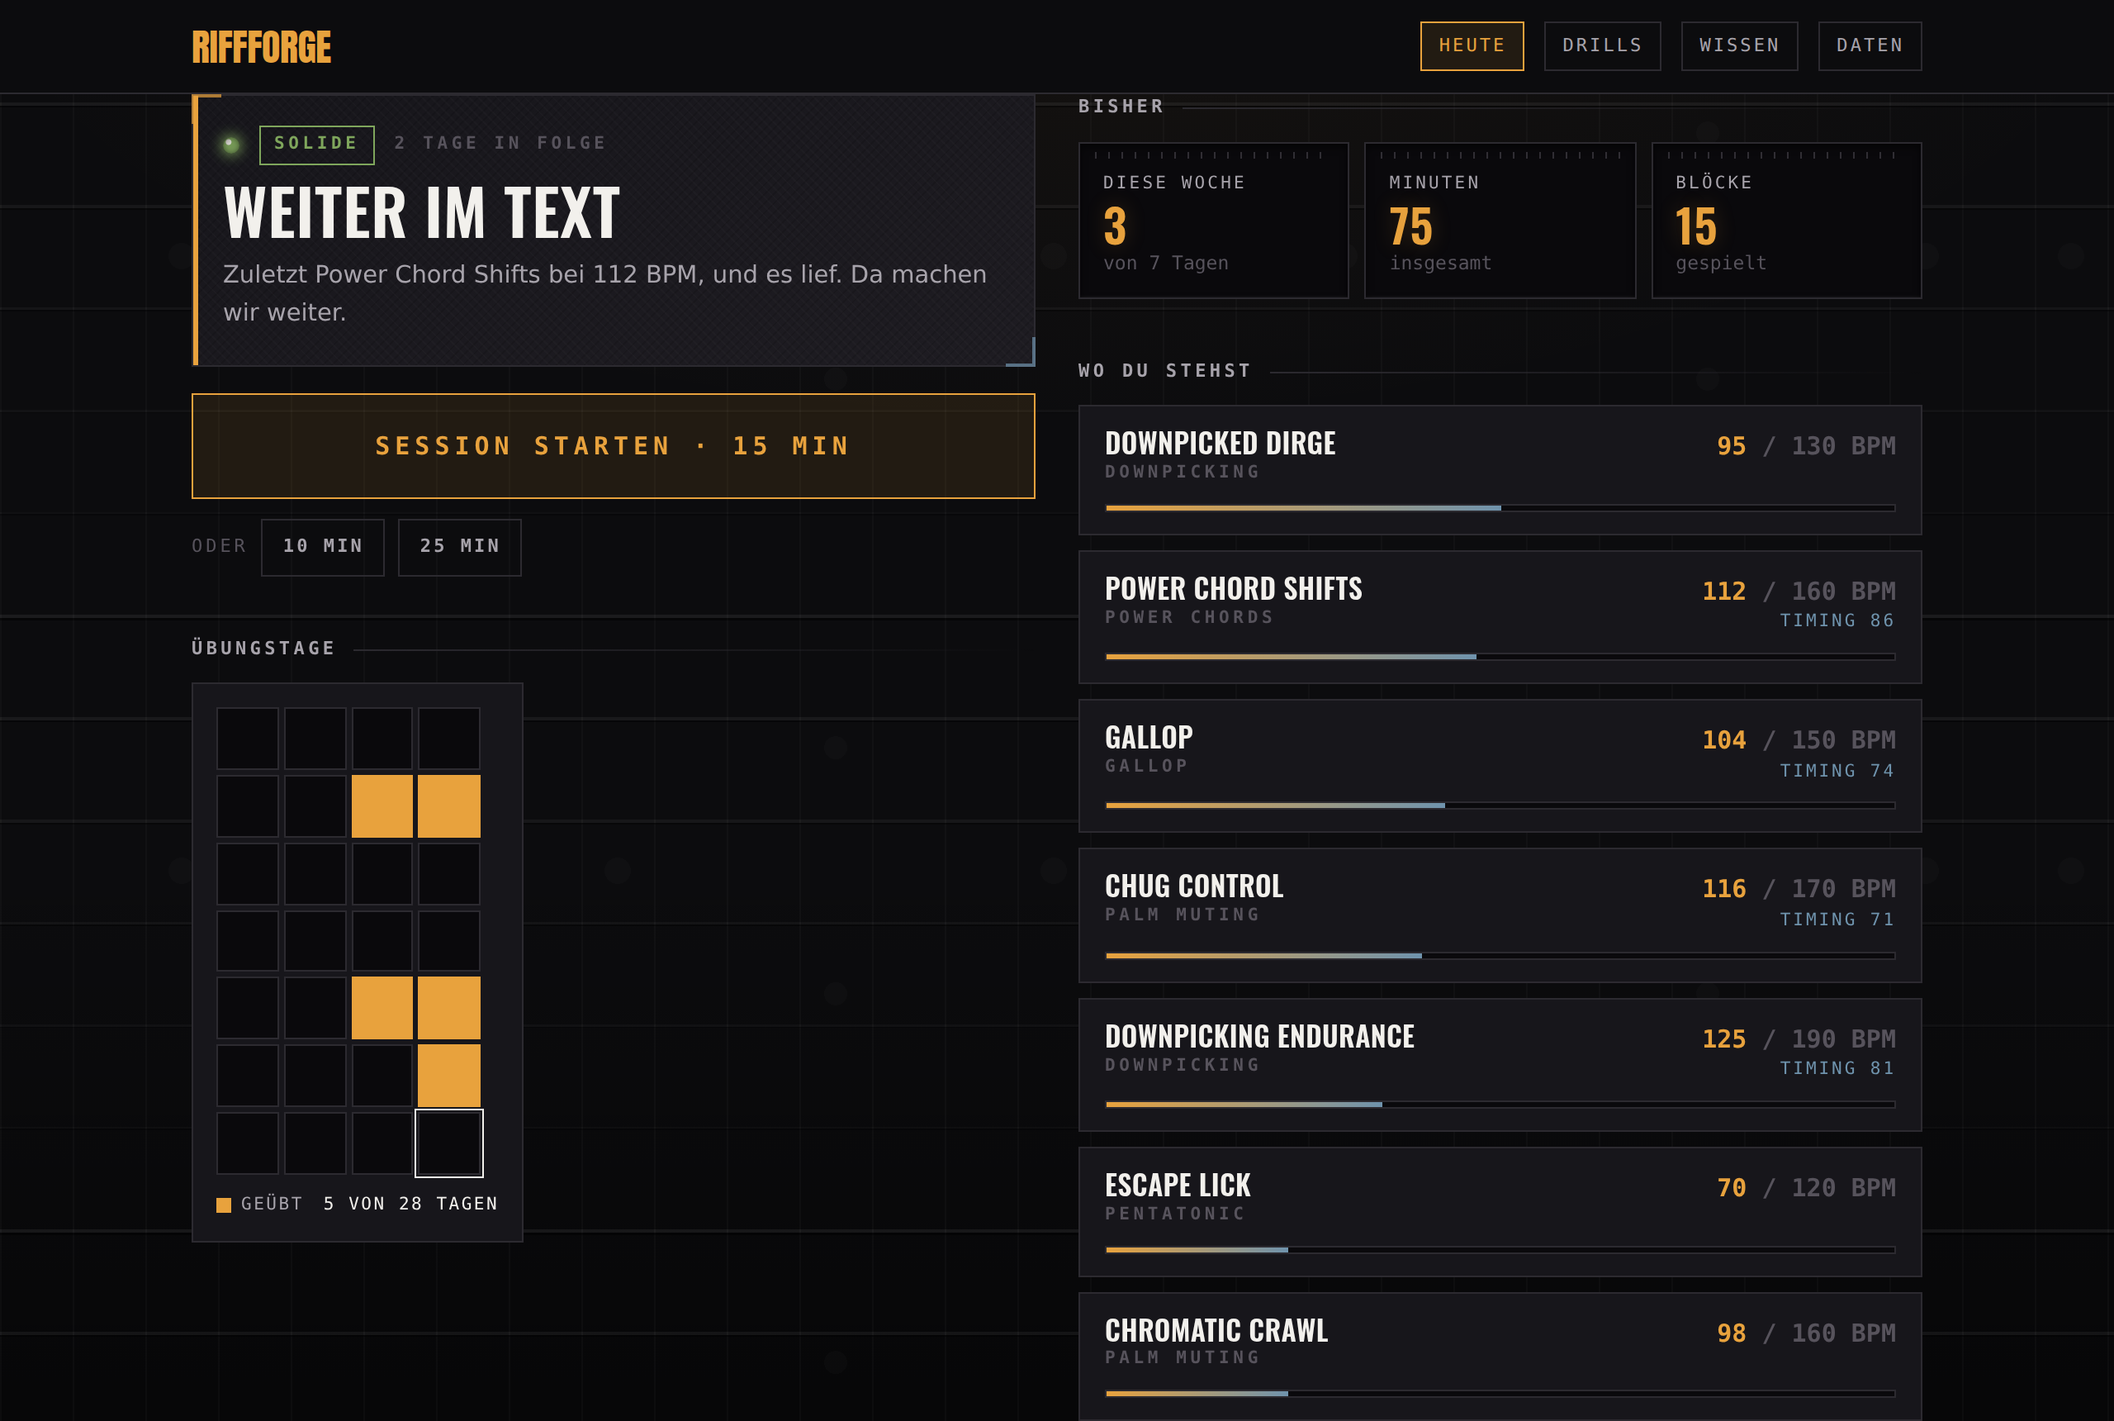
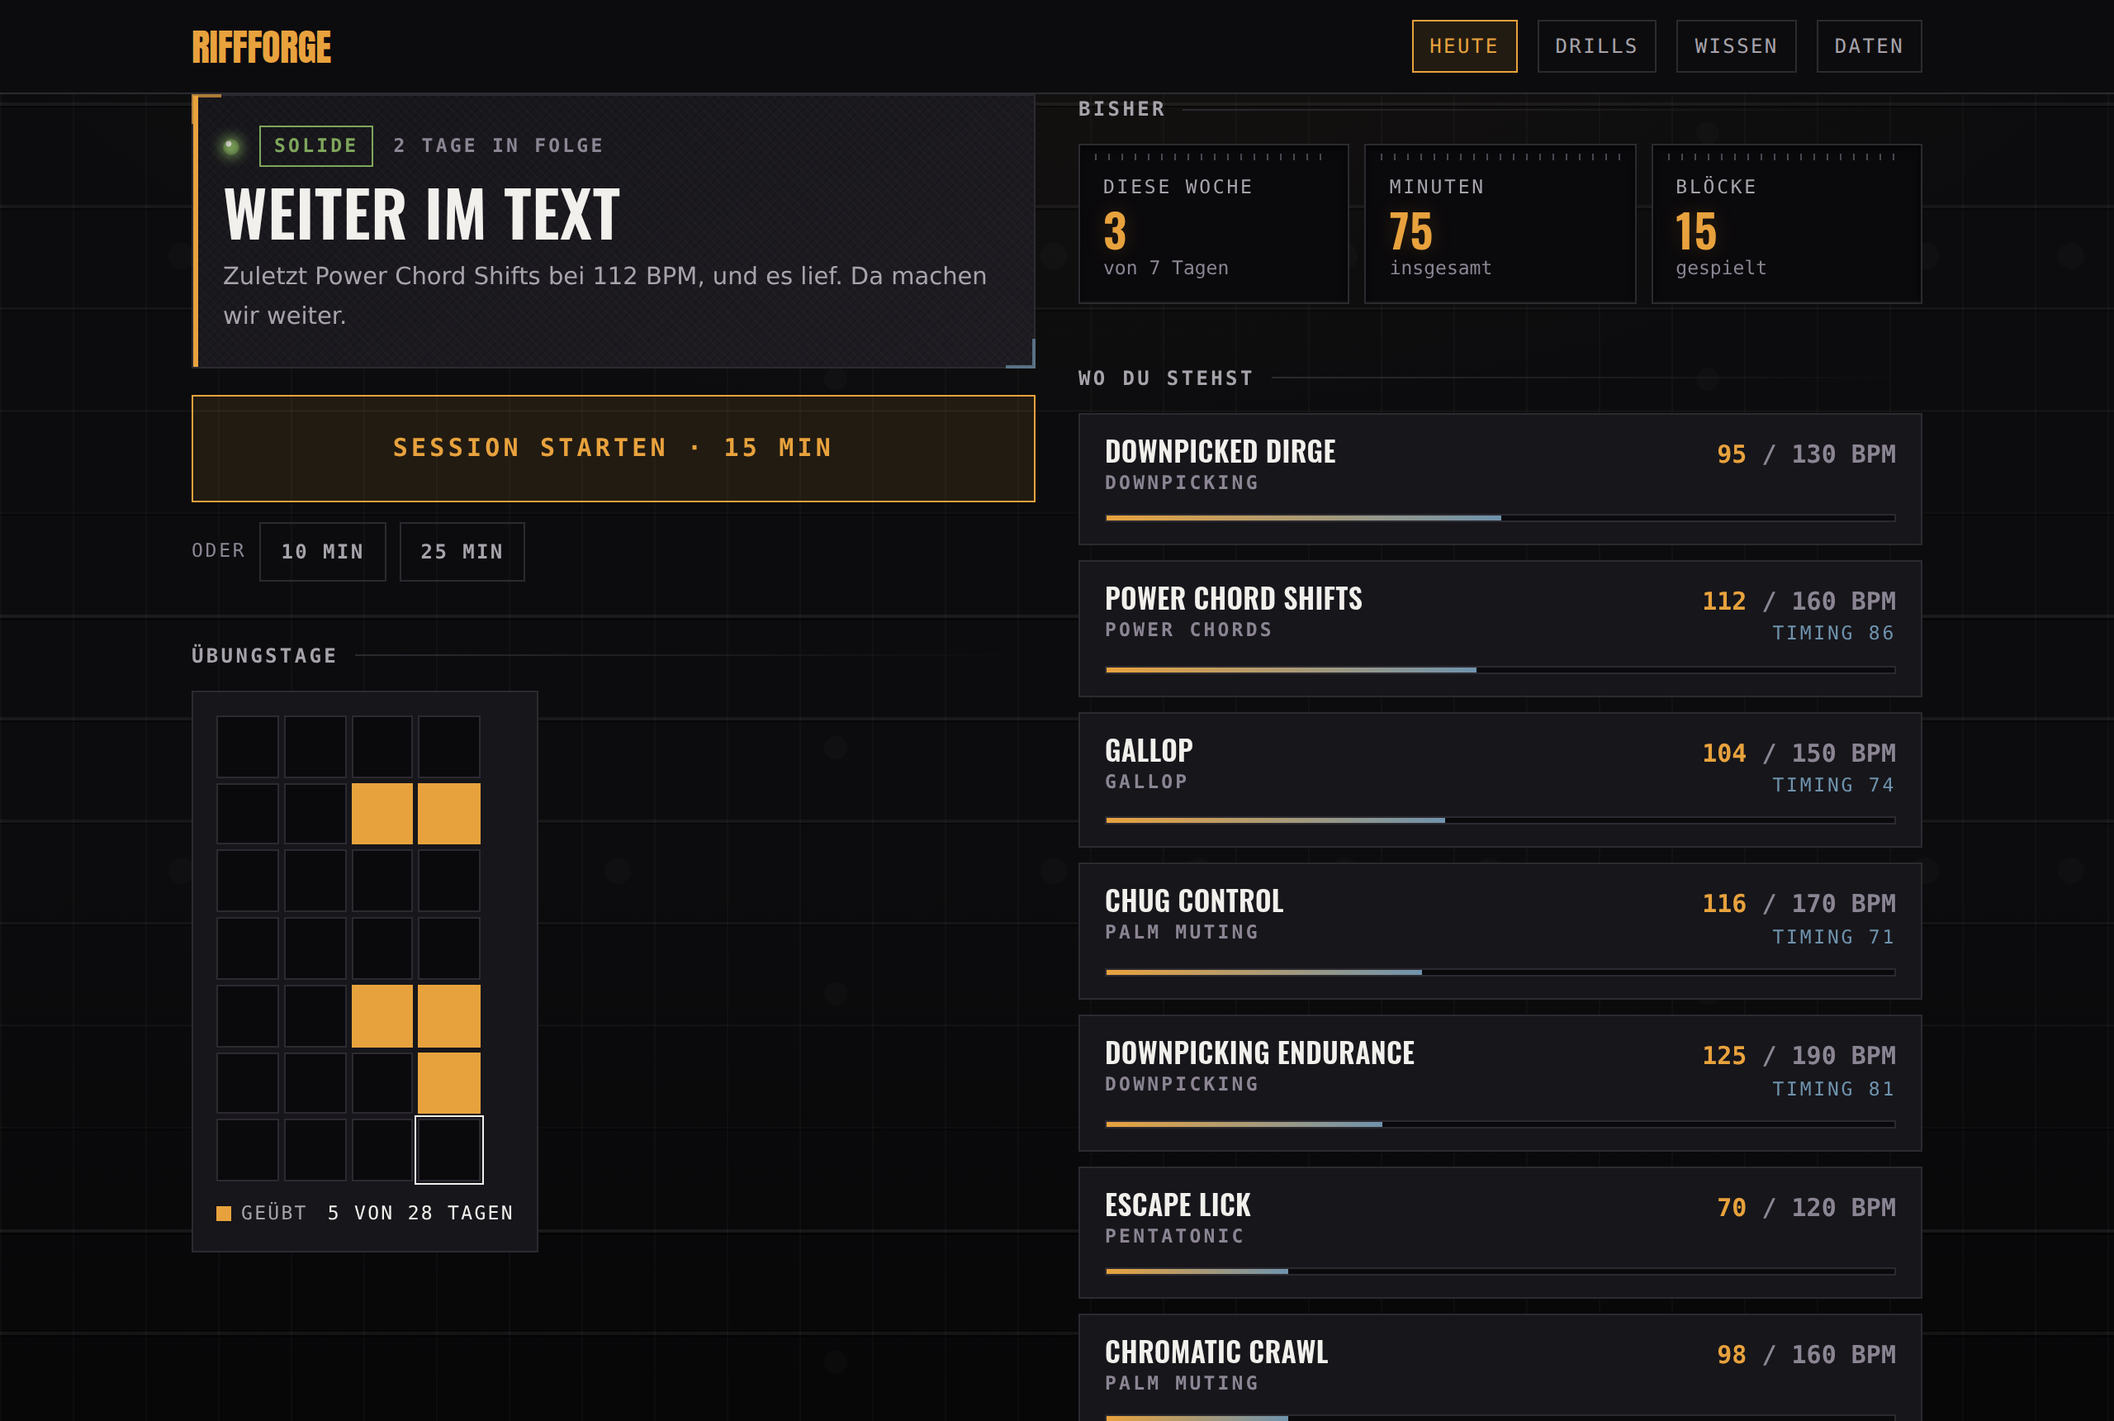
Lesbarkeit ist eine Zahl, kein Geschmack
Daniel: „es war allgemein sehr schwer zu lesen." Nachgerechnet statt
nachgesehen — und der Befund ist eindeutig.

--dim stand auf #57535c. Gegen eine Karte sind das 2,4 : 1, gegen den Grund
2,6 : 1; die Schwelle für lesbaren Text ist 4,5. An dieser Farbe hingen
fünfundvierzig Textstellen in fünfzehn Dateien: Hinweiszeilen, Unterzeilen
der Zahlen, das „oder" neben den Sessionlängen, die Erklärung unter jeder
Bewertung. Die App war an Dutzenden Stellen schlicht nicht lesbar, und
gemerkt hat es keine Prüfung, weil Lesbarkeit bis heute Geschmack war.

Der Wert liegt jetzt auf #8b8593: 5,47 / 5,03 / 4,72 / 5,56 auf den vier
Gründen, und mit Abstand hinter --muted (7,26), damit die Abstufung bleibt.
Der erste Kandidat #87818f ist durchgefallen — an --panel2, dem hellen Ende
des Kartenverlaufs, mit 4,47. Gefunden hat ihn der neue Test beim allerersten
Lauf, nicht ich.

Dazu die zweite Hälfte des Problems: die Etiketten standen auf 10,5 px mit
0,22 em Sperrung. Versalien in Monospace so weit auseinandergezogen zerlegen
das Wortbild, und auf einem Handy kommt beides zusammen. Boden jetzt 11,5 px,
Sperrung höchstens 0,14 em — in .kicker, .rule, .btn, .btn-small, .stat .n
und den sieben Komponenten, die eigene Pixelwerte gesetzt hatten.

lib/ui/kontrast.ts rechnet WCAG rein, lib/ui/__tests__/kontrast.test.ts liest
die Farben aus globals.css und prüft jede Paarung, die als Text vorkommt —
gegen alle vier Gründe, mit der Abstufung als eigener Zusicherung. --rot
[…]

diff --git a/lib/ui/__tests__/kontrast.test.ts b/lib/ui/__tests__/kontrast.test.ts
@@ -1,0 +1,68 @@
+import { readFileSync } from "node:fs"
+import { join } from "node:path"
+import { describe, expect, it } from "vitest"
+import { AA_GROSS, AA_TEXT, kontrast } from "../kontrast"
+
+/**
+ * Lesbarkeit ist eine Zahl, kein Geschmack.
+ *
+ * Der Anlass steht in `kontrast.ts`: `--dim` lag bei 2,4 : 1 gegen eine Karte
+ * und trug trotzdem fünfundvierzig Textstellen. Aufgefallen ist es nicht in
+ * einer Prüfung, sondern weil jemand die App auf dem Handy nicht lesen
+ * konnte. Dieser Test schliesst die Lücke: er liest die echten Farben aus
+ * `app/globals.css` und rechnet jede Paarung nach, die als Text vorkommt.
+ */
+
+const css = readFileSync(join(__dirname, "../../../app/globals.css"), "utf8")
+
+function farbe(name: string): string {
+  const treffer = css.match(new RegExp(`--${name}:\\s*(#[0-9a-fA-F]{3,8})\\s*;`))
+  expect(treffer, `--${name} fehlt in globals.css oder ist kein Hex-Wert`).not.toBeNull()
+  return treffer![1]
+}
+
+/** Die Gründe, auf denen Text tatsächlich steht. */
+const GRUENDE = ["bg", "panel", "panel2", "sunken"] as const
+
+describe("Farbkontrast", () => {
+  it.each(["fg", "muted", "dim"])("%s trägt Fliesstext und schafft AA auf jedem Grund", (ton) => {
+    for (const grund of GRUENDE) {
+      const wert = kontrast(farbe(ton), farbe(grund))
+      expect(wert, `--${ton} auf --${grund}: ${wert.toFixed(2)}`).toBeGreaterThanOrEqual(AA_TEXT)
+    }
+  })
+
+  it.each(["akzent", "stahl", "gruen", "rost"])(
+    "%s trägt Zahlen und Etiketten und schafft AA auf jedem Grund",
+    (ton) => {
+      for (const grund of GRUENDE) {
+        const wert = kontrast(farbe(ton), farbe(grund))
+        expect(wert, `--${ton} auf --${grund}: ${wert.toFixed(2)}`).toBeGreaterThanOrEqual(AA_TEXT)
+      }
+    },
+  )
+
+  it("hält Rot als Rand und grosse Schrift lesbar", () => {
+    // `--rot` steht nur als Rahmen und als kurzes Wort in Versalien da —
+    // dafür gilt die kleinere Schwelle. Es als Fliesstext zu setzen wäre der
+    // Fehler, nicht die Farbe.
+    for (const grund of GRUENDE) {
+      expect(kontrast(farbe("rot"), farbe(grund))).toBeGreaterThanOrEqual(AA_GROSS)
+    }
+  })
+
+  it("lässt die Abstufung bestehen", () => {
+    // Drei Stufen müssen drei bleiben: wer `--dim` bis auf `--muted` anhebt,
+    // macht sie lesbar und zugleich bedeutungslos.
+    const auf = (ton: string) => kontrast(farbe(ton), farbe("panel"))
+    expect(auf("fg")).toBeGreaterThan(auf("muted"))
+    expect(auf("muted")).toBeGreaterThan(auf("dim"))
+    expect(auf("muted") - auf("dim")).toBeGreaterThan(1.5)
+  })
+
+  it("hält die Trennlinie sichtbar, ohne sie als Text zu verlangen", () => {
+    // `--line` ist ein Strich, kein Text. Drei zu eins wäre die Schwelle für
+    // ein Bedienelement; eine Trennlinie darf leiser sein, aber sichtbar.
+    expect(kontrast(farbe("line"), farbe("bg"))).toBeGreaterThan(1.3)
+  })
+})

diff --git a/app/globals.css b/app/globals.css
@@ -20,7 +20,15 @@
     --sunken: #0a090c;
     --fg: #f2f0ec;
     --muted: #a7a3ab;
-    --dim: #57535c;
+    /* Lesbar, nicht nur vorhanden: #57535c lag bei 2,4 : 1 gegen eine Karte
+       und trug trotzdem 45 Textstellen — unter der Schwelle von 4,5. Der
+       schwierigste Grund ist dabei `--panel2`, das helle Ende des
+       Kartenverlaufs; daran ist mein erster Kandidat mit 4,47 gescheitert.
+       Dieser Wert schafft 5,47 / 5,03 / 4,72 / 5,56 auf allen vier Gründen
+       und bleibt mit Abstand hinter `--muted` (7,26), die Abstufung geht
+       also nicht verloren. `lib/ui/__tests__/kontrast.test.ts` rechnet das
+       bei jedem Lauf nach. */
+    --dim: #8b8593;
     --line: #2c2a30;
 
     --akzent: #e8a23d;
@@ -196,7 +204,7 @@
   /* Überschrift mit auslaufender Linie — trennt Abschnitte, ohne einen
      Kasten zu brauchen. */
   .rule {
-    @apply flex items-center gap-[10px] font-mono text-[11px] font-bold uppercase tracking-[0.2em] text-muted;
+    @apply flex items-center gap-[10px] font-mono text-[12px] font-bold uppercase tracking-[0.14em] text-muted;
   }
   .rule::after {
     content: "";
@@ -244,7 +252,7 @@
   }
 
   .kicker {
-    @apply font-mono text-[10.5px] font-bold uppercase tracking-[0.22em] text-muted;
+    @apply font-mono text-[11.5px] font-bold uppercase tracking-[0.14em] text-muted;
   }
 
   /* Die Wortmarke, und sonst nichts. Anton ist für engen Satz gezeichnet —
@@ -276,7 +284,7 @@
   .btn {
     @apply inline-flex cursor-pointer items-center justify-center gap-2 border border-akzent
            bg-[--tint-akzent] px-5 py-4 font-mono text-[13px] font-extrabold uppercase
-           tracking-[0.2em] text-akzent transition-colors;
+           tracking-[0.14em] text-akzent transition-colors;
   }
   .btn:hover:not(:disabled) {
     background: var(--tint-akzent-stark);
@@ -292,7 +300,7 @@
     background: var(--tint-stahl);
   }
   .btn-small {
-    @apply px-3 py-2 text-[11px] tracking-[0.14em];
+    @apply px-3 py-2 text-[12px] tracking-[0.1em];
   }
 
   /* Balken: eingelassen, nicht aufgesetzt. */
@@ -313,7 +321,7 @@
     @apply px-[14px] pb-3 pt-[17px];
   }
   .stat .n {
-    @apply font-mono text-[10.5px] uppercase tracking-[0.15em] text-muted;
+    @apply font-mono text-[11.5px] uppercase tracking-[0.12em] text-muted;
   }
   .stat .v {
     @apply display glimmt mt-0.5 text-[28px] text-akzent;

diff --git a/lib/ui/kontrast.ts b/lib/ui/kontrast.ts
@@ -1,0 +1,39 @@
+/**
+ * WCAG-Kontrast, gerechnet.
+ *
+ * Der Anlass: `--dim` stand auf #57535c und trug fünfundvierzig Textstellen —
+ * 2,4 : 1 gegen eine Karte, bei einer Schwelle von 4,5. Die App war an
+ * Dutzenden Stellen schlicht nicht lesbar, und keine Prüfung hat das gemerkt,
+ * weil Lesbarkeit bis dahin Geschmack war statt einer Zahl.
+ *
+ * Rein und ohne Browser, damit `__tests__/kontrast.test.ts` das Stylesheet
+ * dagegen rechnen kann.
+ */
+
+/** Ein Farbwert `#rrggbb` als Kanäle 0…255. */
+export function kanaele(hex: string): [number, number, number] {
+  const wert = hex.trim().replace("#", "")
+  const voll = wert.length === 3 ? [...wert].map((z) => z + z).join("") : wert
+  return [0, 2, 4].map((i) => parseInt(voll.slice(i, i + 2), 16)) as [number, number, number]
+}
+
+/** Relative Leuchtdichte nach WCAG 2.1. */
+export function leuchtdichte(hex: string): number {
+  const anteil = (k: number) => {
+    const c = k / 255
+    return c <= 0.03928 ? c / 12.92 : ((c + 0.055) / 1.055) ** 2.4
+  }
+  const [r, g, b] = kanaele(hex)
+  return 0.2126 * anteil(r) + 0.7152 * anteil(g) + 0.0722 * anteil(b)
+}
+
+/** Kontrastverhältnis zweier Farben, immer ≥ 1. */
+export function kontrast(vorne: string, hinten: string): number {
+  const [hell, dunkel] = [leuchtdichte(vorne), leuchtdichte(hinten)].sort((a, b) => b - a)
+  return (hell + 0.05) / (dunkel + 0.05)
+}
+
+/** Was WCAG AA für normalen Fliesstext verlangt. */
+export const AA_TEXT = 4.5
+/** Dasselbe für grossen oder fetten Text, und für Bedienelement-Ränder. */
+export const AA_GROSS = 3

diff --git a/components/session/practice-overview.tsx b/components/session/practice-overview.tsx
@@ -88,7 +88,7 @@ export function PracticeOverview() {
       </Link>
 
       <div className="mt-3 flex items-center gap-2">
-        <span className="font-mono text-[11px] uppercase tracking-[0.18em] text-dim">oder</span>
+        <span className="font-mono text-[11.5px] uppercase tracking-[0.12em] text-dim">oder</span>
         {EXTRA_LENGTHS.map((length) => (
           <Link key={length} href={`/session?minutes=${length}`} className="btn btn-ghost btn-small">
             {length} Min
@@ -133,7 +133,7 @@ export function PracticeOverview() {
                           <span className="text-dim"> / {drill.targetBpm} BPM</span>
                         </div>
                         {progress.bestTimingScore !== null && (
-                          <div className="font-mono text-[10.5px] uppercase tracking-[0.14em] text-stahl">
+                          <div className="font-mono text-[11.5px] uppercase tracking-[0.12em] text-stahl">
                             Timing {progress.bestTimingScore}
                           </div>
                         )}

diff --git a/components/navigation.tsx b/components/navigation.tsx
@@ -36,7 +36,7 @@ export function Navigation() {
               key={item.href}
               href={item.href}
               aria-current={active ? "page" : undefined}
-              className={`flex-none border px-2 py-1.5 font-mono text-[10px] uppercase tracking-[0.08em] transition-colors sm:px-2.5 sm:text-[11px] sm:tracking-[0.14em] ${
+              className={`flex-none border px-2 py-1.5 font-mono text-[11px] uppercase tracking-[0.06em] transition-colors sm:px-2.5 sm:text-[12px] sm:tracking-[0.1em] ${
                 active
                   ? "border-akzent bg-[--tint-akzent] text-akzent"
                   : "border-line text-muted hover:border-stahl hover:text-stahl"

diff --git a/components/session/timing-report.tsx b/components/session/timing-report.tsx
@@ -49,8 +49,8 @@ function Scatter({ deviations }: { deviations: number[] }) {
           />
         )
       })}
-      <span className="absolute bottom-0.5 left-1.5 font-mono text-[10px] uppercase tracking-[0.14em] text-dim">früh</span>
-      <span className="absolute bottom-0.5 right-1.5 font-mono text-[10px] uppercase tracking-[0.14em] text-dim">spät</span>
+      <span className="absolute bottom-0.5 left-1.5 font-mono text-[11px] uppercase tracking-[0.1em] text-dim">früh</span>
+      <span className="absolute bottom-0.5 right-1.5 font-mono text-[11px] uppercase tracking-[0.1em] text-dim">spät</span>
     </div>
   )
 }

diff --git a/components/session/practice-calendar.tsx b/components/session/practice-calendar.tsx
@@ -48,7 +48,7 @@ export function PracticeCalendar({ log, weeks }: { log: PracticeLog; weeks?: num
         ))}
       </div>
 
-      <div className="mt-[11px] flex flex-wrap items-center gap-3 font-mono text-[10.5px] uppercase tracking-[0.12em] text-muted">
+      <div className="mt-[11px] flex flex-wrap items-center gap-3 font-mono text-[11.5px] uppercase tracking-[0.1em] text-muted">
         <span className="flex items-center gap-1.5">
           <i className="inline-block h-[9px] w-[9px] bg-akzent" /> geübt
         </span>

diff --git a/components/session/drill-library.tsx b/components/session/drill-library.tsx
@@ -55,7 +55,7 @@ export function DrillLibrary() {
                       <div className="ziffern text-[15px] font-bold text-akzent">
                         {nextBpm(drill, progress, profile)}
                       </div>
-                      <div className="font-mono text-[10.5px] uppercase tracking-[0.14em] text-dim">
+                      <div className="font-mono text-[11.5px] uppercase tracking-[0.12em] text-dim">
                         Ziel {drill.targetBpm}
                       </div>
                     </div>

diff --git a/components/session/update-panel.tsx b/components/session/update-panel.tsx
@@ -155,7 +155,7 @@ export function UpdatePanel() {
           >
             {originalBusy ? "Frage nach…" : "Beim Original nachsehen"}
           </button>
-          <p className="mt-2 font-mono text-[11px] leading-relaxed text-dim">
+          <p className="mt-2 font-mono text-[12px] leading-relaxed text-dim">
             Fragt api.github.com — die einzige Stelle, an der diese App ohne
             eingerichteten Abgleich nach draussen spricht, und nur auf diesen
             Knopf hin.

diff --git a/components/session/mic-panel.tsx b/components/session/mic-panel.tsx
@@ -49,7 +49,7 @@ export function MicPanel({ status, detail, level, hits, onToggle }: MicPanelProp
         )}
 
         {!listening && !blocked && (
-          <span className="font-mono text-[11px] uppercase tracking-[0.14em] text-dim">
+          <span className="font-mono text-[11.5px] uppercase tracking-[0.1em] text-dim">
             {LABELS[status]}
           </span>
         )}

diff --git a/CLAUDE.md b/CLAUDE.md
@@ -57,6 +57,7 @@ Verschiedenes.
 | `lib/theory/progress.ts` | Kartenstand aus dem Antwort-Log, Auswahl fürs Abfragen |
 | `lib/theory/fretboard.ts` | Griffbrett als Rechnung: Töne, Intervalle, Lagen |
 | `lib/theory/hals.ts` | Die Maße des Halses — einmal für das SVG, einmal fürs CSS |
+| `lib/ui/kontrast.ts` | WCAG-Kontrast als Rechnung — Grundlage des Lesbarkeitstests |
 | `lib/theory/cards.ts` | Der Wissenskatalog (reine Daten) |
 | `lib/theory/rhythm.ts` | Rhythmusfiguren als Zeitpunkte, und ihre Bewertung |
 | `lib/storage/theory-log.ts` | localStorage, einziger Zugriffspunkt auf die Antworten |
@@ -94,6 +95,22 @@ Komponente.
   dem, was zählt, Stahlblau für alles Zweitrangige, harte Kanten mit 2 px.
   Farben stehen als CSS-Variablen in `app/globals.css`, nicht als Hex-Werte in
   Komponenten. Road-Case, kein HUD.
+- **Lesbarkeit ist eine Zahl.** `lib/ui/__tests__/kontrast.test.ts` liest die
+  Farben aus `globals.css` und rechnet jede Paarung nach, die als Text
+  vorkommt — AA, also 4,5 : 1. Der Anlass war kein Geschmacksurteil: `--dim`
+  stand auf #57535c, das sind **2,4 : 1** gegen eine Karte, und trug trotzdem
+  fünfundvierzig Textstellen in fünfzehn Dateien. Die App war an Dutzenden
+  Stellen schlicht nicht lesbar, und gemerkt hat es niemand, weil Lesbarkeit
+  bis dahin Geschmack war statt einer Prüfung. Der schwierigste Grund ist
+  `--panel2`, das helle Ende des Kartenverlaufs — dort ist mein erster
+  Kandidat mit 4,47 gescheitert, und der Test hat ihn beim ersten Lauf
+  abgewiesen. Wer eine Farbe anfasst, lässt ihn laufen.
+- **Klein und gesperrt ist zweimal schlecht.** Die Etiketten standen auf
+  10,5 px mit 0,22 em Sperrung; Versalien in Monospace so weit auseinander
+  zerlegen das Wortbild, und auf einem Handy kommt beides zusammen. Der Boden
+  ist jetzt 11,5 px, die Sperrung höchstens 0,14 em. Wer ein Etikett setzt,
+  nimmt `.kicker` statt eigener Pixelwerte — sonst wandert der Boden wieder
+  nach unten.
 - **Der Grund ist der Hals, nicht ein Muster, das so aussieht.** Die Maße
   stehen einmal in `lib/theory/hals.ts` — 44 px Bundbreite, 62 px
   Saitenabstand, Einlagen bei 3, 5, 7, 9 und doppelt am 12. Daraus zeichnet

diff --git a/README.md b/README.md
@@ -4,7 +4,7 @@
 
 <p align="center">
   <a href="https://cyphomat.github.io/riffforge/"><img alt="App öffnen" src="https://img.shields.io/badge/App-öffnen-e8a23d?style=for-the-badge&labelColor=17161b"></a>
-  <img alt="Tests" src="https://img.shields.io/badge/Tests-481%20grün-7fa65c?style=for-the-badge&labelColor=17161b">
+  <img alt="Tests" src="https://img.shields.io/badge/Tests-491%20grün-7fa65c?style=for-the-badge&labelColor=17161b">
   <img alt="Offline" src="https://img.shields.io/badge/Offline-läuft-6f93ad?style=for-the-badge&labelColor=17161b">
   <img alt="Abhängigkeiten" src="https://img.shields.io/badge/Abhängigkeiten-6-a7a3ab?style=for-the-badge&labelColor=17161b">
 </p>
